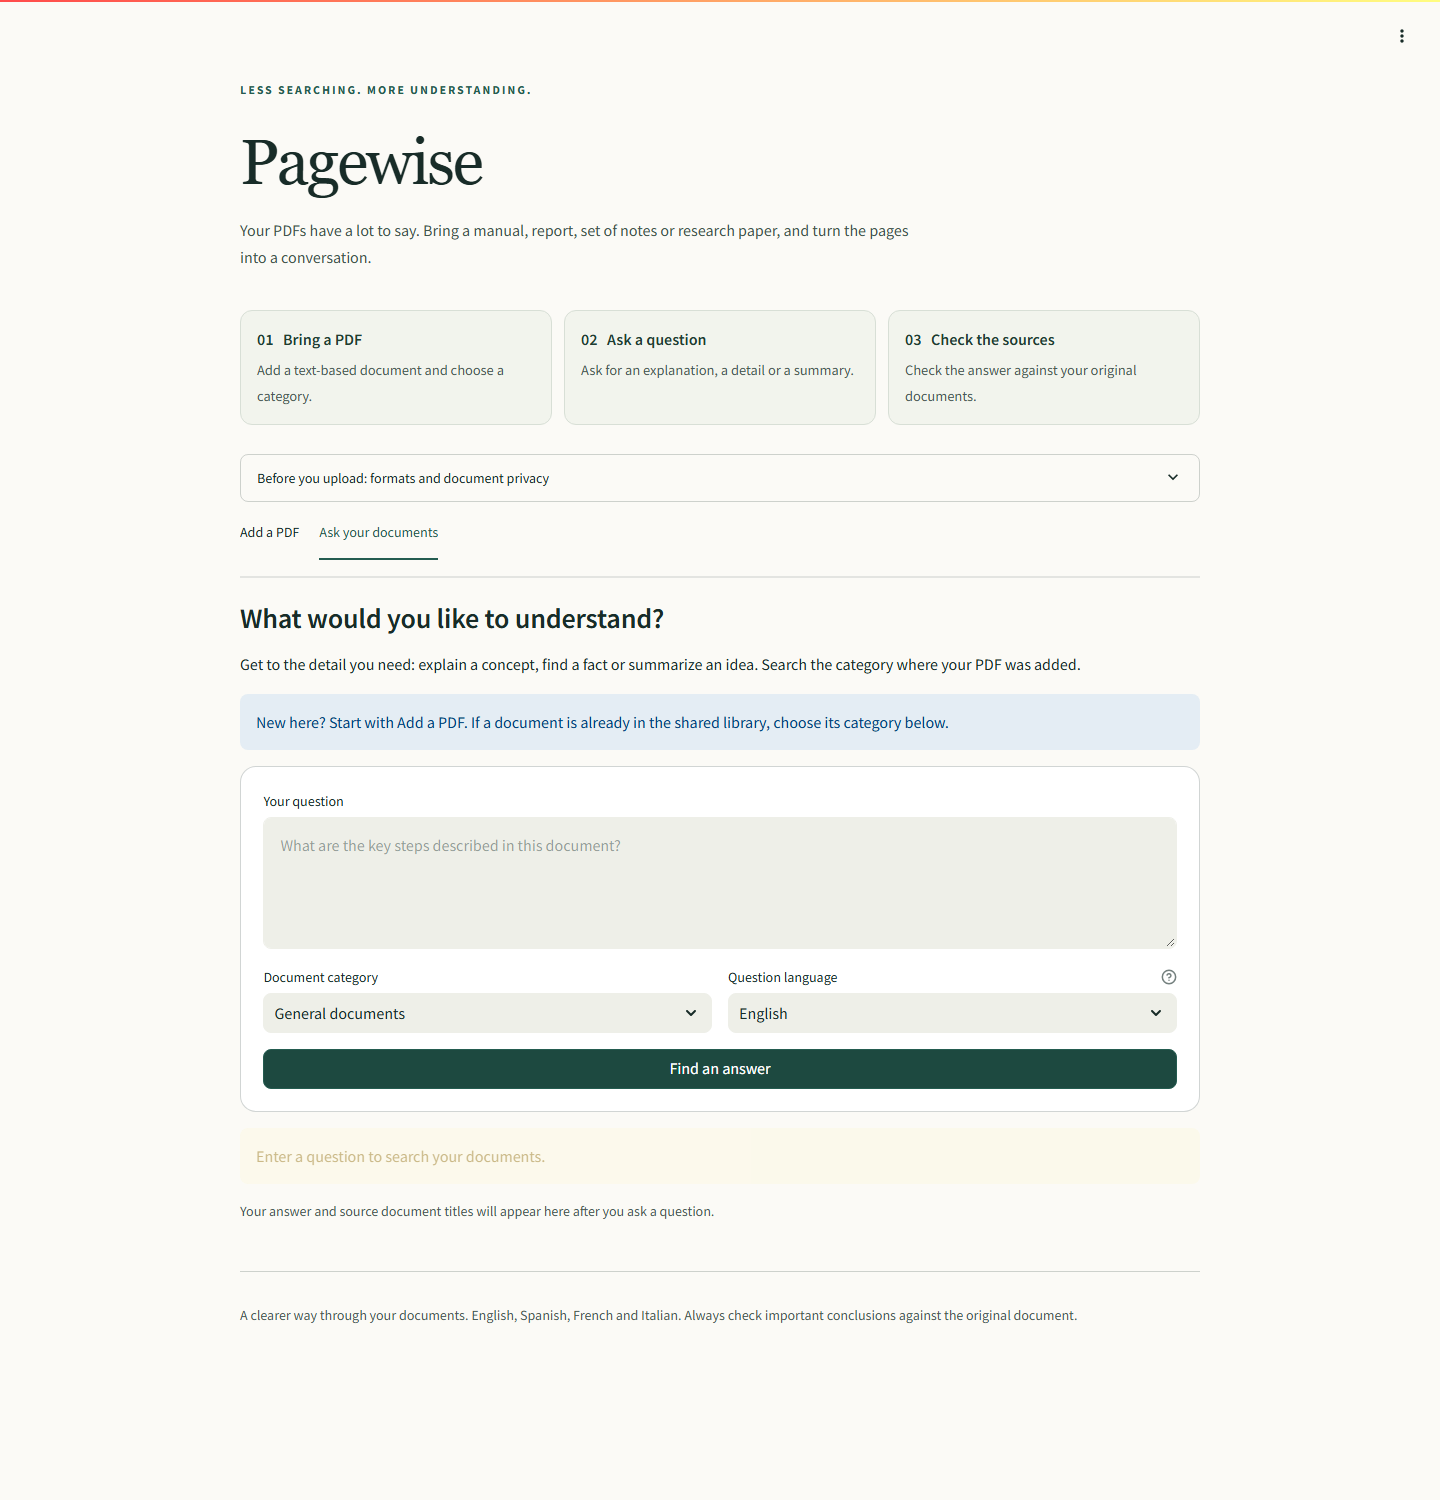
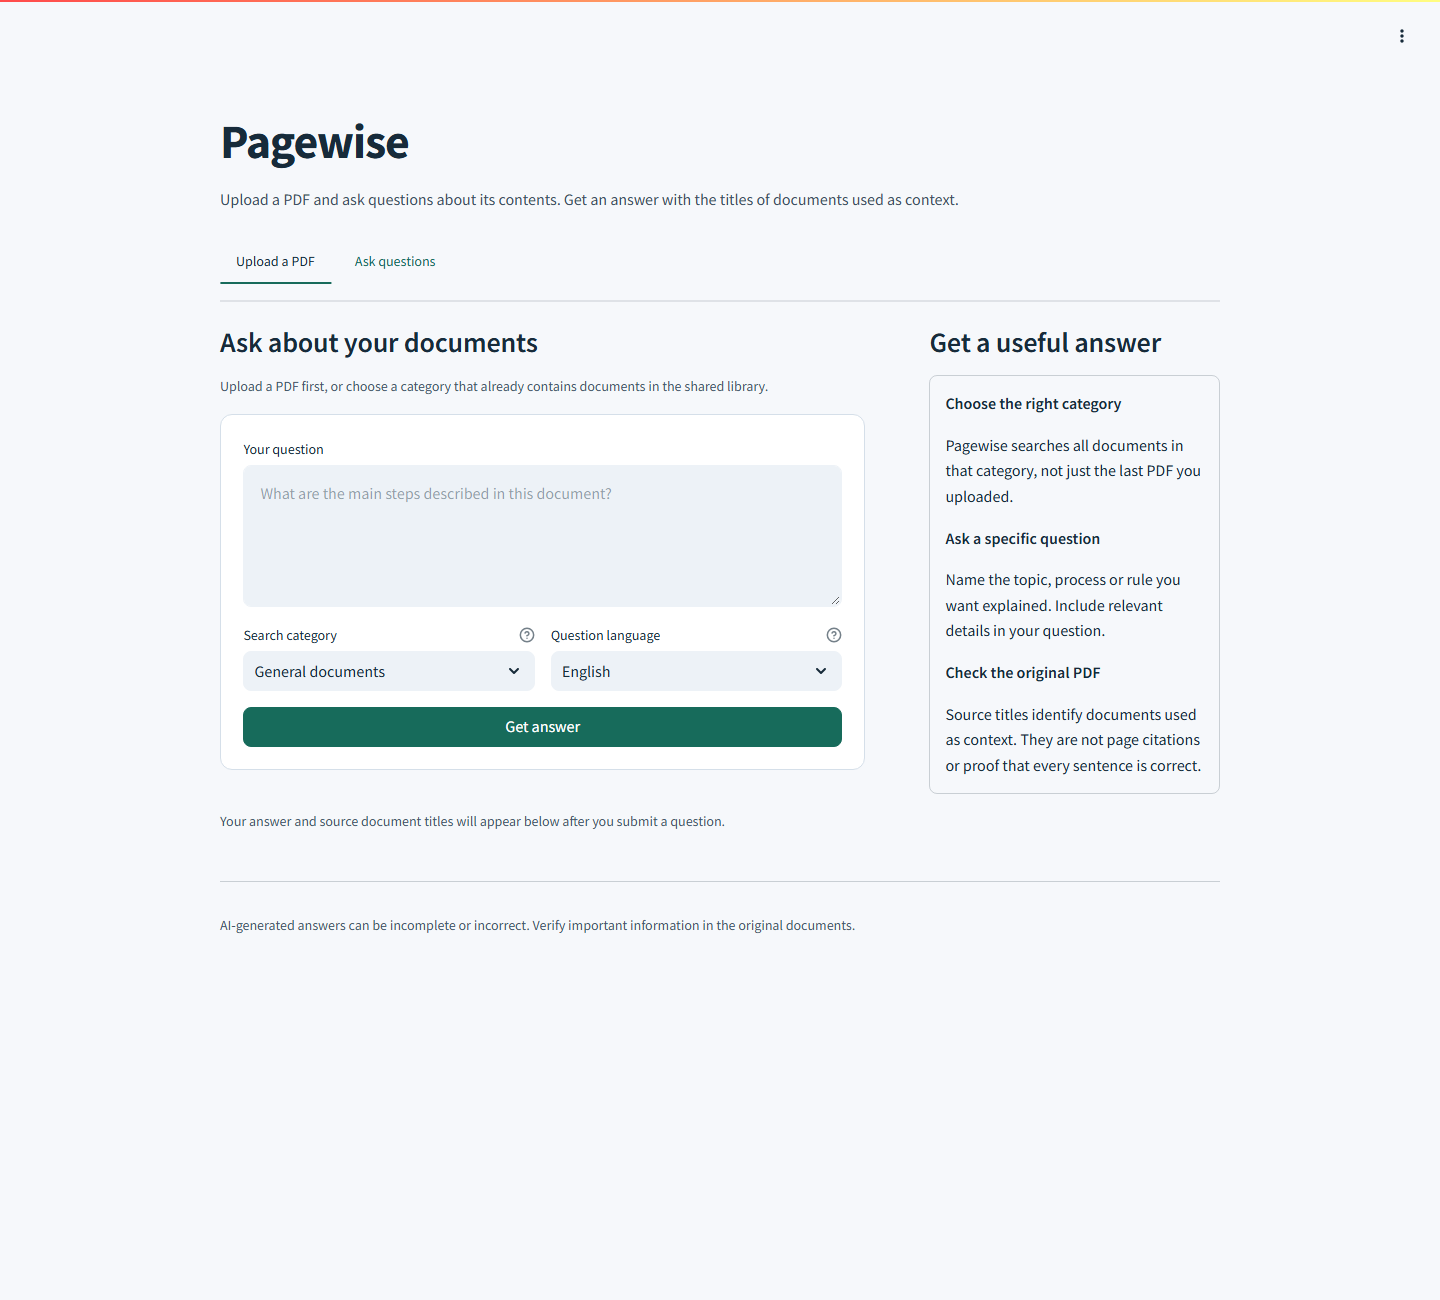
Refresh public workspace screenshots and release verification

diff --git a/docs/VALIDATION.md b/docs/VALIDATION.md
@@ -129,3 +129,9 @@ use direct language. Shared-library privacy is visible in the upload view.
 All 33 regression tests passed. Fixture browser checks passed at phone, tablet
 and desktop sizes, including PDF upload, category handoff, keyboard submission,
 answer/source rendering and page-width overflow checks.
+
+The clarity update `d060d7f` passed GitHub CI and public phone/tablet/desktop
+checks for upload-first navigation, question validation, browser title and page
+overflow. The frontend health endpoint returned HTTP 200. Public upload and
+question screenshots were refreshed. This frontend-only release does not
+revalidate external provider availability or full accessibility conformance.

diff --git a/docs/DEPLOYMENT.md b/docs/DEPLOYMENT.md
@@ -4,8 +4,8 @@
 
 Three Render Docker web services were deployed on 8 November 2026 in Singapore,
 all with `plan: free`, using the Render API. Existing unrelated services were
-preserved. The agent and frontend run document-workspace commit
-`2873bfd38f98646141ec6f6ae65f5e21cad142e6`; the unchanged translator runs
+preserved. The agent runs `2873bfd38f98646141ec6f6ae65f5e21cad142e6`. The frontend
+runs interface update `d060d7f45bbbb50e08ec0a2b2c5b54c996804e48`. The unchanged translator runs
 `0e62affe945def11068fce93a97093595b7b75d3`.
 
 | Component | Public endpoint |
